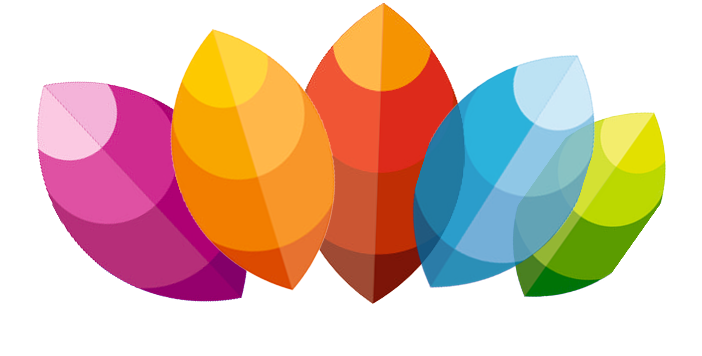
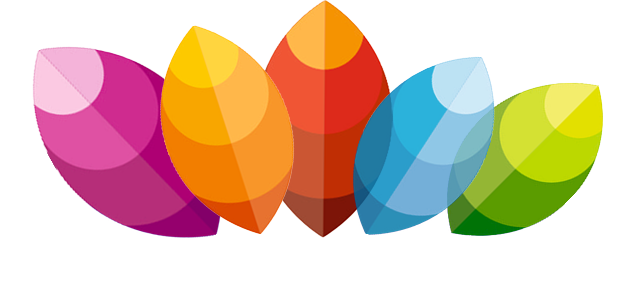
mobile scss

Changed region(s): [[0.0311, 0.0, 0.9642, 0.8732], [0.2799, 0.0845, 0.3421, 0.1408], [0.1244, 0.7042, 0.1555, 0.7606]]

diff --git a/src/app/footer/footer.component.scss b/src/app/footer/footer.component.scss
@@ -6,3 +6,36 @@
     background-repeat: no-repeat;
     background-position: center bottom;
 }
+
+.info {
+    width: 50vw;
+    font-family: Roboto;
+    font-weight: 300;
+    font-size: 12px;
+    letter-spacing: 5.5%;
+
+    padding: 10px 20px;
+    background: #EBCFE0C7;
+    border: 2px solid #3534347D;
+    box-shadow: 9px 0px 11px 0px #00000040;
+    border-radius: 10px;
+}
+
+@media (max-width: 768px) {
+    .container {
+        background-image: none;
+    }
+    .info {
+        width: 80vw;
+        font-family: Roboto;
+        font-weight: 300;
+        font-size: 12px;
+        letter-spacing: 5.5%;
+    
+        padding: 0px 20px;
+        background: #EBCFE0C7;
+        border: 2px solid #3534347D;
+        box-shadow: 9px 0px 11px 0px #00000040;
+        border-radius: 10px;
+    }
+}

diff --git a/src/index.html b/src/index.html
@@ -7,7 +7,6 @@
   <base href="/">
   <meta name="viewport" content="width=device-width, initial-scale=1">
   <meta name="Keywords" content="дополнительное образование, образование, дополнительное, фотошкола, студия, кружок, мастерская, ансамбль, танцы, вокал, новосибирск, советский, творчество, детское, центр, академгородок, ЦДТ, фотография, искусство">
-  <link rel="icon" type="image/x-icon" href="favicon.ico">
   
   <link rel="preconnect" href="https://fonts.googleapis.com">
   <link rel="preconnect" href="https://fonts.gstatic.com" crossorigin>

diff --git a/src/app/footer/footer.component.html b/src/app/footer/footer.component.html
@@ -4,7 +4,13 @@
             <img src="Contacts.svg" alt="Контакты" />
         </div>
         <div>
-            <img src="Info-footer.svg" alt="Информацитя о контактах" />
+            <div class="info">
+                <p>Некоммерческая организация</p>
+                <p>Благотворительный фонд поддержки и развития</p>
+                <p>Центра Детского Творчества Советского района</p>
+                <p>г. Новосибирск, ул. Академическая, 28</p>
+                <p>E-mail: bfcdt&#64;mail.ru</p>
+            </div>
         </div>
     </div>
 </section>

diff --git a/src/app/app.component.ts b/src/app/app.component.ts
@@ -2,12 +2,13 @@ import { Component } from '@angular/core';
 import { RouterOutlet, RouterLink } from '@angular/router';
 import { HeaderComponent } from './header/header.component';
 import { FooterComponent } from './footer/footer.component';
+import { ProgrammsComponent } from "./programms/programms.component";
 
 @Component({
   selector: 'app-root',
-  imports: [RouterOutlet, RouterLink, 
-    HeaderComponent, 
-    FooterComponent],
+  imports: [RouterOutlet, RouterLink,
+    HeaderComponent,
+    FooterComponent, ProgrammsComponent],
   templateUrl: './app.component.html',
   styleUrl: './app.component.scss'
 })

diff --git a/src/app/app.component.scss b/src/app/app.component.scss
@@ -28,3 +28,32 @@ section {
     }
 }
 
+@media (max-width: 768px) {
+    section {
+        display: flex;
+        flex-direction: column;
+        align-items: center; 
+        justify-content: flex-start;
+    }
+
+    .wrapper-logo {
+        position: static;
+        grid-row: 2;
+        img {
+            max-height: 100px;
+            position: static;
+            transform: none;
+            top: auto;
+            left: auto;
+            max-width: 100%; 
+        }
+    }
+    
+    .wrapper-leaf {    
+        display: none
+    }
+
+    .footer {
+        // margin-top: auto; 
+    }
+}

diff --git a/src/app/acknowledgment/acknowledgment.component.scss b/src/app/acknowledgment/acknowledgment.component.scss
@@ -19,3 +19,24 @@ h1 {
     text-shadow: 0px 4px 4px #00000040;
     margin-top: 150px;
 }
+
+@media (max-width: 768px) {
+    section {
+        div{
+            width: 80vw;
+        }
+    }
+
+    .container {
+        flex-wrap: wrap;
+    }
+
+    .title {
+    display: flex;
+    justify-content: center;
+
+        h1 {
+            margin-top: 20px
+        }
+    }
+}

diff --git a/src/app/events/events.component.scss b/src/app/events/events.component.scss
@@ -19,3 +19,24 @@ h1 {
     text-shadow: 0px 4px 4px #00000040;
     margin-top: 150px;
 }
+
+@media (max-width: 768px) {
+    section {
+        div{
+            width: 80vw;
+        }
+    }
+
+    .container {
+        flex-wrap: wrap;
+    }
+
+    .title {
+    display: flex;
+    justify-content: center;
+
+        h1 {
+            margin-top: 20px
+        }
+    }
+}

diff --git a/src/app/news/news.component.scss b/src/app/news/news.component.scss
@@ -19,3 +19,24 @@ h1 {
     text-shadow: 0px 4px 4px #00000040;
     margin-top: 150px;
 }
+
+@media (max-width: 768px) {
+    section {
+        div{
+            width: 80vw;
+        }
+    }
+
+    .container {
+        flex-wrap: wrap;
+    }
+
+    .title {
+    display: flex;
+    justify-content: center;
+
+        h1 {
+            margin-top: 20px
+        }
+    }
+}

diff --git a/src/app/documents/documents.component.scss b/src/app/documents/documents.component.scss
@@ -39,3 +39,24 @@ a {
     display: flex;
     justify-content: space-around;
 }
+
+@media (max-width: 768px) {
+    section {
+        div{
+            width: 80vw;
+        }
+    }
+
+    .container {
+        flex-wrap: wrap;
+    }
+
+    .title {
+    display: flex;
+    justify-content: center;
+
+        h1 {
+            margin-top: 20px
+        }
+    }
+}

diff --git a/src/app/programms/programms.component.scss b/src/app/programms/programms.component.scss
@@ -38,3 +38,24 @@ h1 {
         margin-bottom: 5px;
     }
 }
+
+@media (max-width: 768px) {
+    section {
+        div{
+            width: 80vw;
+        }
+    }
+
+    .container {
+        flex-wrap: wrap;
+    }
+
+    .title {
+    display: flex;
+    justify-content: center;
+
+        h1 {
+            margin-top: 20px
+        }
+    }
+}

diff --git a/src/app/partners/partners.component.scss b/src/app/partners/partners.component.scss
@@ -24,3 +24,24 @@ h1 {
 a {
     color: #912969;
 }
+
+@media (max-width: 768px) {
+    section {
+        div{
+            width: 80vw;
+        }
+    }
+
+    .container {
+        flex-wrap: wrap;
+    }
+
+    .title {
+    display: flex;
+    justify-content: center;
+
+        h1 {
+            margin-top: 20px
+        }
+    }
+}

diff --git a/src/app/founders/founders.component.scss b/src/app/founders/founders.component.scss
@@ -23,3 +23,21 @@ h1 {
 .founders{        
     margin-top: 120px; 
 }
+
+@media (max-width: 768px) {
+    section {
+        div{
+            width: 80vw;
+        }
+    }
+
+    .container {
+        flex-wrap: wrap;
+    }
+
+    .founders {
+    display: flex;
+    justify-content: center;
+    margin-top: 0px
+    }
+}
